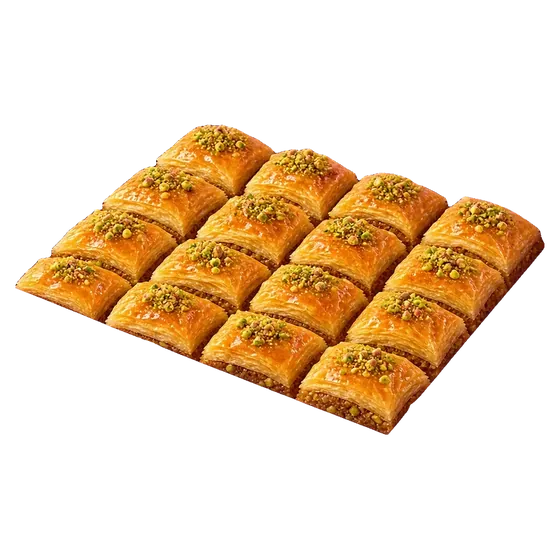
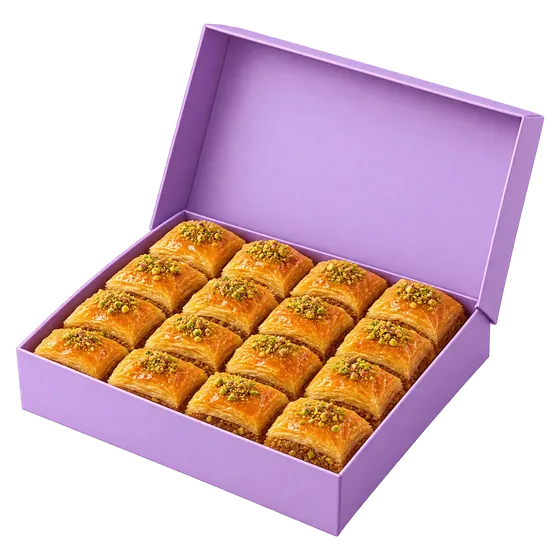
Show full boxes for 3 items; stop Arabic title dots from clipping
- Oyoun al-maha from its real transparent source; snickers balls and cinnamon roll cut as box + contents (SAM box mask merged with the food mask, enclosed holes filled)
- More line-height on Aref Ruqaa titles so dots below letters aren't cut off or hidden under the English label

diff --git a/index.html b/index.html
@@ -40,13 +40,14 @@ img{pointer-events:none;-webkit-user-drag:none}
 /* page header */
 .eb{display:block;text-align:center;font-family:var(--latin);font-size:.72rem;letter-spacing:.35em;color:var(--acc)}
 .pg-h{text-align:center;margin-bottom:8px}
-.pg-h h2{font-family:var(--display);font-size:clamp(3.6rem,17vw,5.4rem);line-height:1.15;margin-top:2px}
-.lat{font-family:var(--latin);letter-spacing:.42em;font-size:.8rem;color:var(--sub);display:block;margin-top:-4px}
+/* Aref Ruqaa puts its dots far below the baseline: give the line room so they aren't clipped or hidden under the English label */
+.pg-h h2{font-family:var(--display);font-size:clamp(3.6rem,17vw,5.4rem);line-height:1.65;margin-top:-6px}
+.lat{font-family:var(--latin);letter-spacing:.42em;font-size:.8rem;color:var(--sub);display:block;margin-top:-2px}
 
 /* featured item */
 .feat{display:grid;grid-template-columns:1.15fr 1fr;align-items:center;gap:8px;margin:18px 0 6px;cursor:pointer}
 .feat .cut{width:100%}
-.feat h3{font-family:var(--display);font-size:1.9rem;line-height:1.25}
+.feat h3{font-family:var(--display);font-size:1.9rem;line-height:1.6}
 .feat p{color:var(--sub);font-size:.88rem;margin-top:4px}
 .pbox{display:grid;grid-template-columns:1fr 1fr;margin-top:14px;border-radius:16px;overflow:hidden;border:1.5px solid var(--fg);text-align:center}
 .pbox div{padding:6px 4px 8px}
@@ -54,7 +55,7 @@ img{pointer-events:none;-webkit-user-drag:none}
 .pbox small{display:block;font-size:.7rem;opacity:.75}
 .pbox b{font-family:var(--latin);font-size:1.7rem;line-height:1.1;font-weight:600}
 .badge{position:absolute;top:4%;right:2%;z-index:3;width:68px;height:68px;border-radius:50%;display:grid;place-items:center;text-align:center;
-  background:var(--acc);color:var(--bg);font-family:var(--display);font-size:1rem;line-height:1.1;transform:rotate(-12deg);box-shadow:0 8px 18px -8px rgba(0,0,0,.5)}
+  background:var(--acc);color:var(--bg);font-family:var(--display);font-size:1rem;line-height:1.3;transform:rotate(-12deg);box-shadow:0 8px 18px -8px rgba(0,0,0,.5)}
 
 /* section label */
 .sub-h{display:flex;align-items:center;gap:12px;margin:26px 0 4px;font-family:var(--display);font-size:1.7rem}
@@ -80,7 +81,7 @@ img{pointer-events:none;-webkit-user-drag:none}
 .cut.ph img{display:none}
 .phn{display:none}
 .cut.ph .phn,.cut:not(:has(img[src])) .phn{display:grid}
-.phn{position:absolute;inset:10%;border-radius:50%;place-items:center;padding:12%;text-align:center;font-family:var(--display);font-size:1.05rem;line-height:1.25;
+.phn{position:absolute;inset:10%;border-radius:50%;place-items:center;padding:12%;text-align:center;font-family:var(--display);font-size:1.05rem;line-height:1.5;
   background:radial-gradient(circle at 35% 30%,#f6d39a,#d38d3b 75%);color:#4a2a10;box-shadow:0 18px 26px -14px rgba(0,0,0,.55),inset 0 -8px 16px rgba(120,60,10,.25)}
 .feat .phn,.cover .phn,dialog .phn{font-size:1.6rem}
 .float{animation:float 5s ease-in-out infinite}
@@ -89,7 +90,7 @@ img{pointer-events:none;-webkit-user-drag:none}
 
 /* cover */
 .cover .in{display:flex;flex-direction:column;justify-content:center;text-align:center;padding-top:60px}
-.cover h1{font-family:var(--display);font-size:clamp(3rem,14vw,4.6rem);line-height:1.1;margin-top:6px;
+.cover h1{font-family:var(--display);font-size:clamp(3rem,14vw,4.6rem);line-height:1.65;margin-top:0;
   background:linear-gradient(180deg,#f7d9a4,#e3a64c 60%,#b8742a);-webkit-background-clip:text;background-clip:text;color:transparent}
 .cover .big{font-weight:700;font-size:clamp(4.2rem,24vw,7.5rem);line-height:.95;letter-spacing:-.02em}
 .trio{position:relative;height:clamp(220px,62vw,320px);margin:14px 0 6px}
@@ -126,7 +127,7 @@ dialog[open]{animation:pop .4s cubic-bezier(.2,.8,.2,1)}
 @keyframes pop{from{opacity:0;transform:perspective(900px) rotateX(-16deg) translateY(40px)}}
 .sh{padding:28px 24px 26px;text-align:center}
 .sh .cut{width:72%;margin:0 auto 6px}
-.sh h3{font-family:var(--display);font-size:2.2rem;line-height:1.25}
+.sh h3{font-family:var(--display);font-size:2.2rem;line-height:1.6}
 .sh p{color:var(--sub);margin-top:4px}
 .sh .pbox{max-width:280px;margin:18px auto 0}
 .x{position:absolute;top:12px;left:12px;z-index:3;width:40px;height:40px;border-radius:50%;background:var(--card);font-size:1.4rem;line-height:1}
